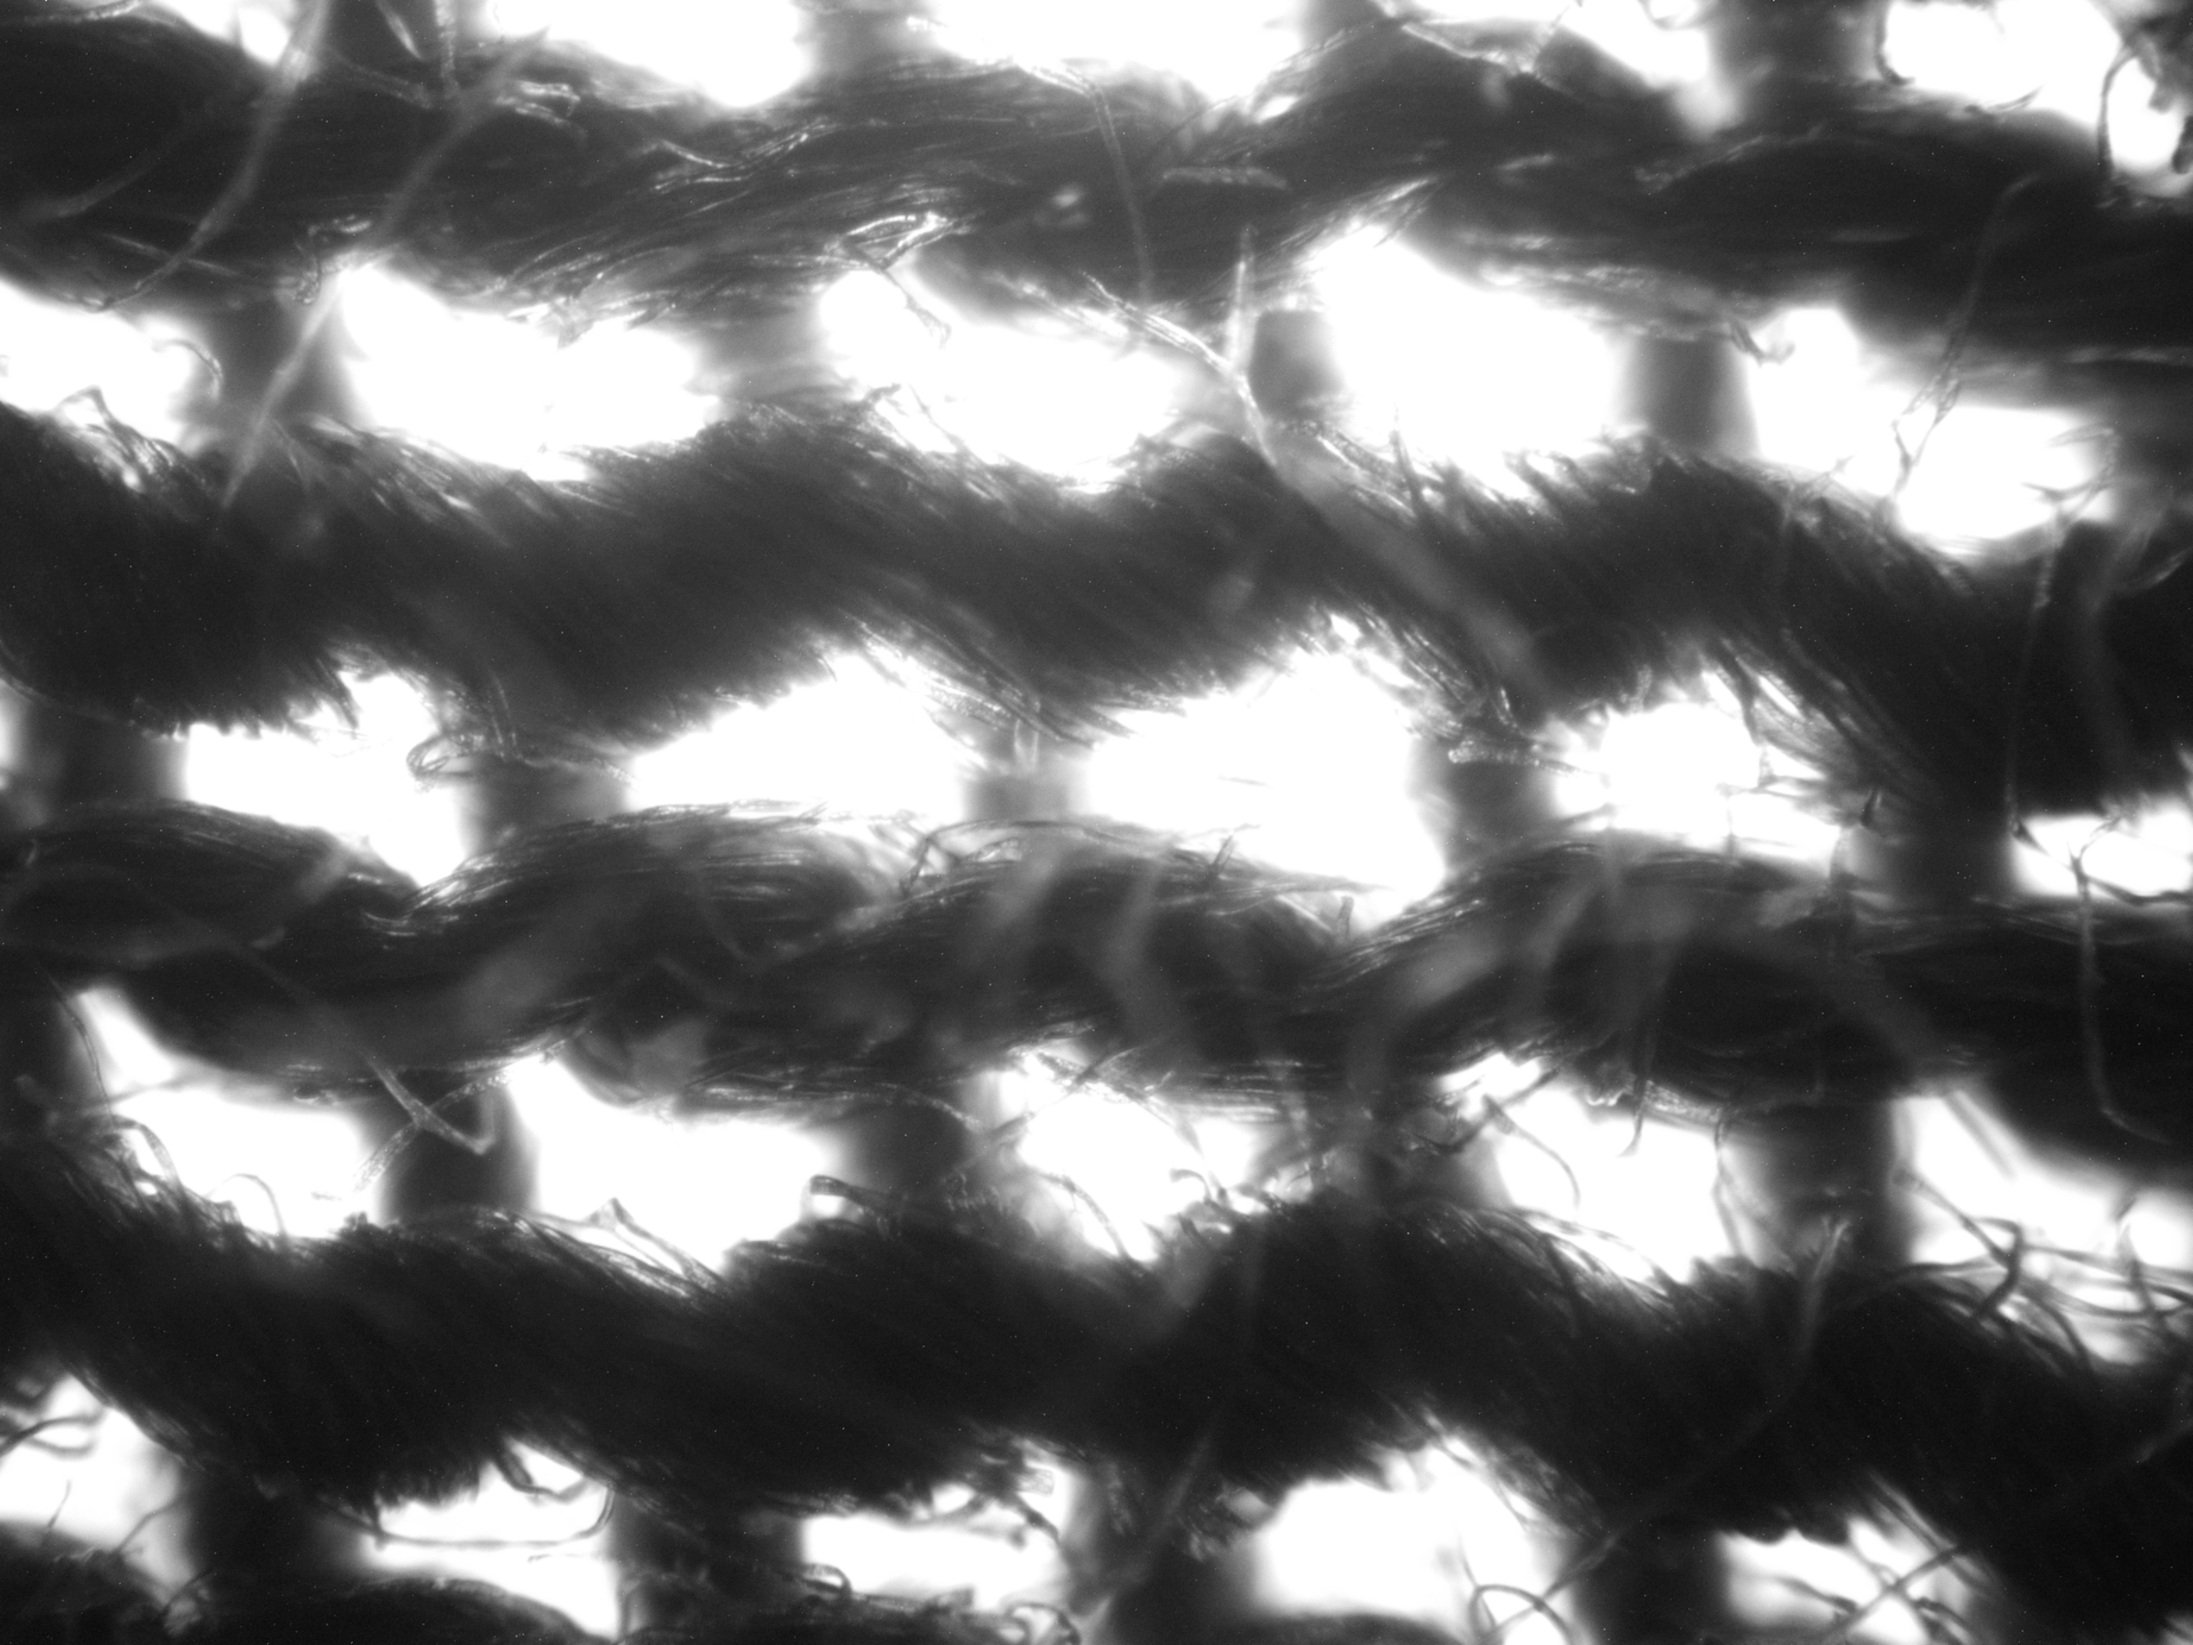
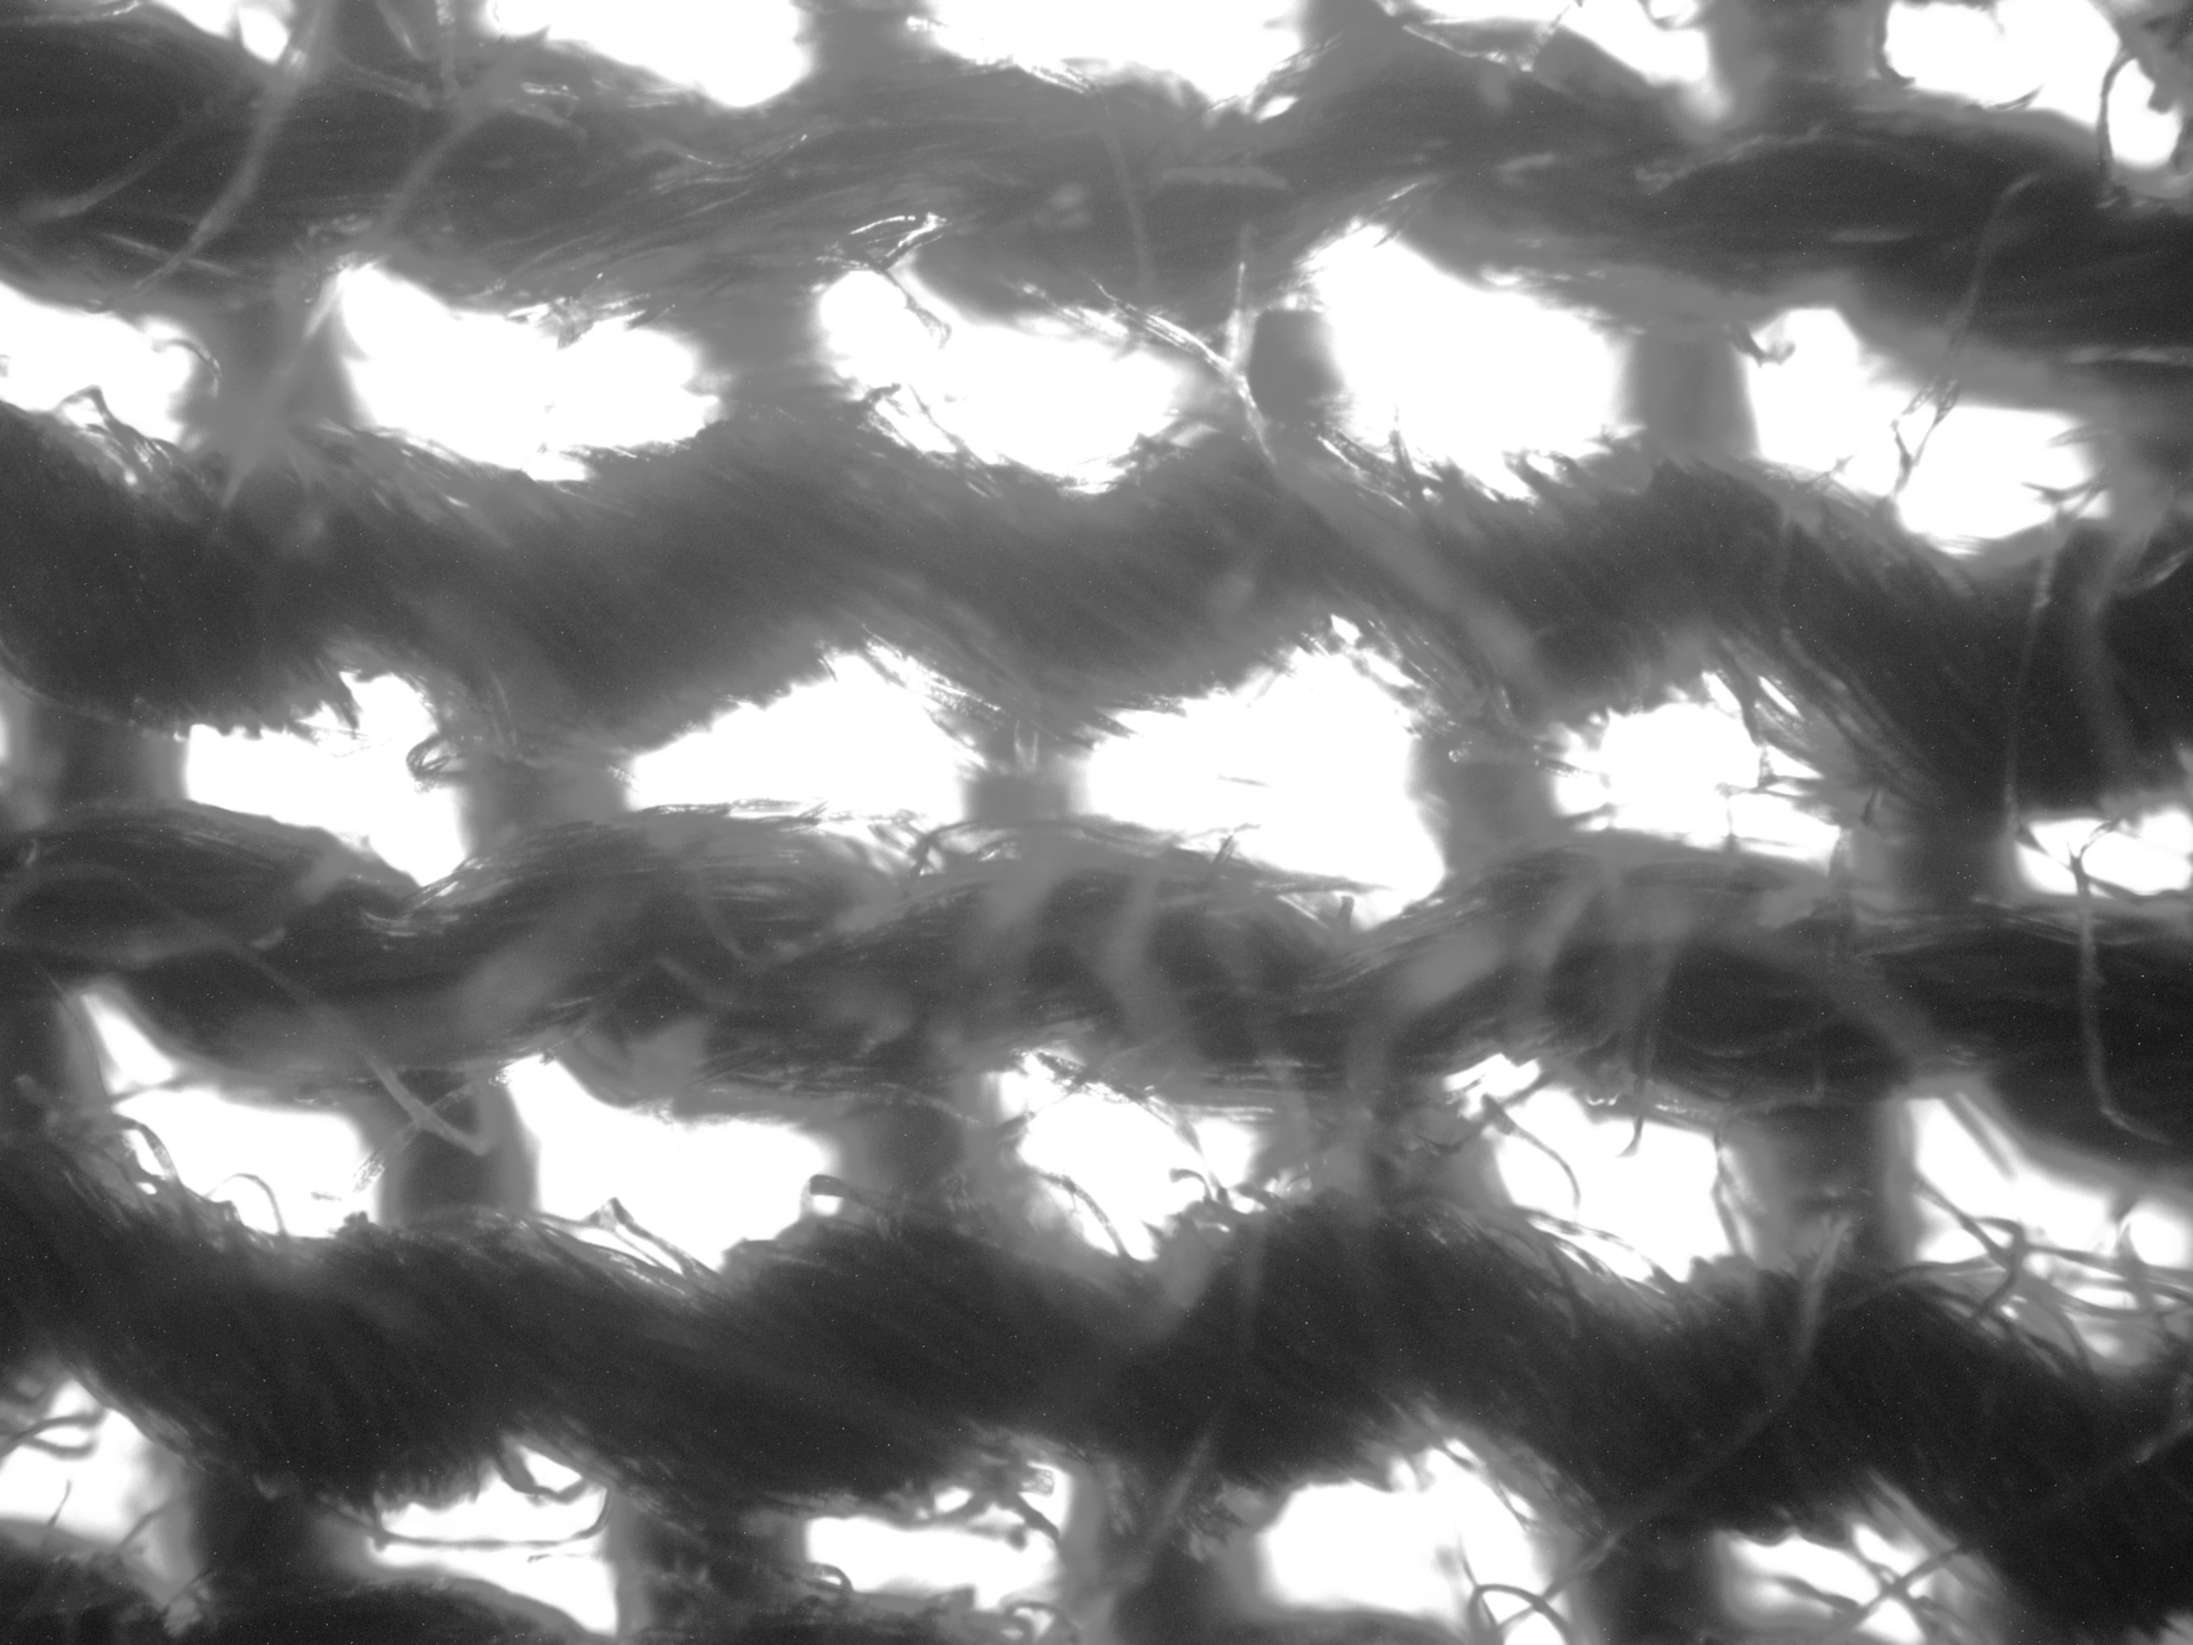
updated try projectKnit

diff --git a/project2.py b/project2.py
@@ -1,0 +1,43 @@
+from skimage import io, color, filters, morphology
+import numpy as np
+import matplotlib.pyplot as plt
+
+# Load image
+img = io.imread("enhanced/sk30003.jpg")
+
+# Convert to grayscale
+gray = color.rgb2gray(img)
+
+# Apply Gaussian blur
+blurred = filters.gaussian(gray, sigma=12)  # sigma roughly matches kernel size
+
+# Apply Otsu threshold
+thresh_val = filters.threshold_triangle(blurred)
+thresh = blurred < thresh_val
+
+# Morphological opening to remove noise
+opened = morphology.opening(thresh, morphology.square(3))
+
+# Calculate covering factor
+yarn_pixels = np.sum(opened)
+total_pixels = opened.size
+covering_factor = yarn_pixels / total_pixels
+
+print(f"Covering Factor: {covering_factor * 100:.2f}%")
+print(f"Yarn Pixels: {yarn_pixels}")
+print(f"Total Pixels: {total_pixels}")
+
+# Visualize results
+fig, axes = plt.subplots(1, 4, figsize=(15, 5))
+axes[0].imshow(gray, cmap='gray')
+axes[0].set_title("Grayscale")
+axes[1].imshow(blurred, cmap='gray')
+axes[1].set_title("Blurred")
+axes[2].imshow(thresh, cmap='gray')
+axes[2].set_title("Thresholded (Inverted)")
+axes[3].imshow(opened, cmap='gray')
+axes[3].set_title("Morphological Opened")
+
+for ax in axes:
+    ax.axis('off')
+plt.show()

diff --git a/projectKnit.py b/projectKnit.py
@@ -2,13 +2,13 @@ import cv2
 import numpy as np
 #sw10005,10001
 # ====  Load Image ====
-img = cv2.imread("sk10003.jpg")
+img = cv2.imread("sw40001.jpg")
 
 # ====  Convert to Grayscale ====
 gray = cv2.cvtColor(img, cv2.COLOR_BGR2GRAY)
 
 # ====  Apply Gaussian Blur ====
-blurred = cv2.GaussianBlur(gray, (5, 5), 0)
+blurred = cv2.GaussianBlur(gray, (25, 25), 0)
 
 # ====  Apply Thresholding ====
 # Otsu + Inverted Binary so that dark yarn becomes white (255)
